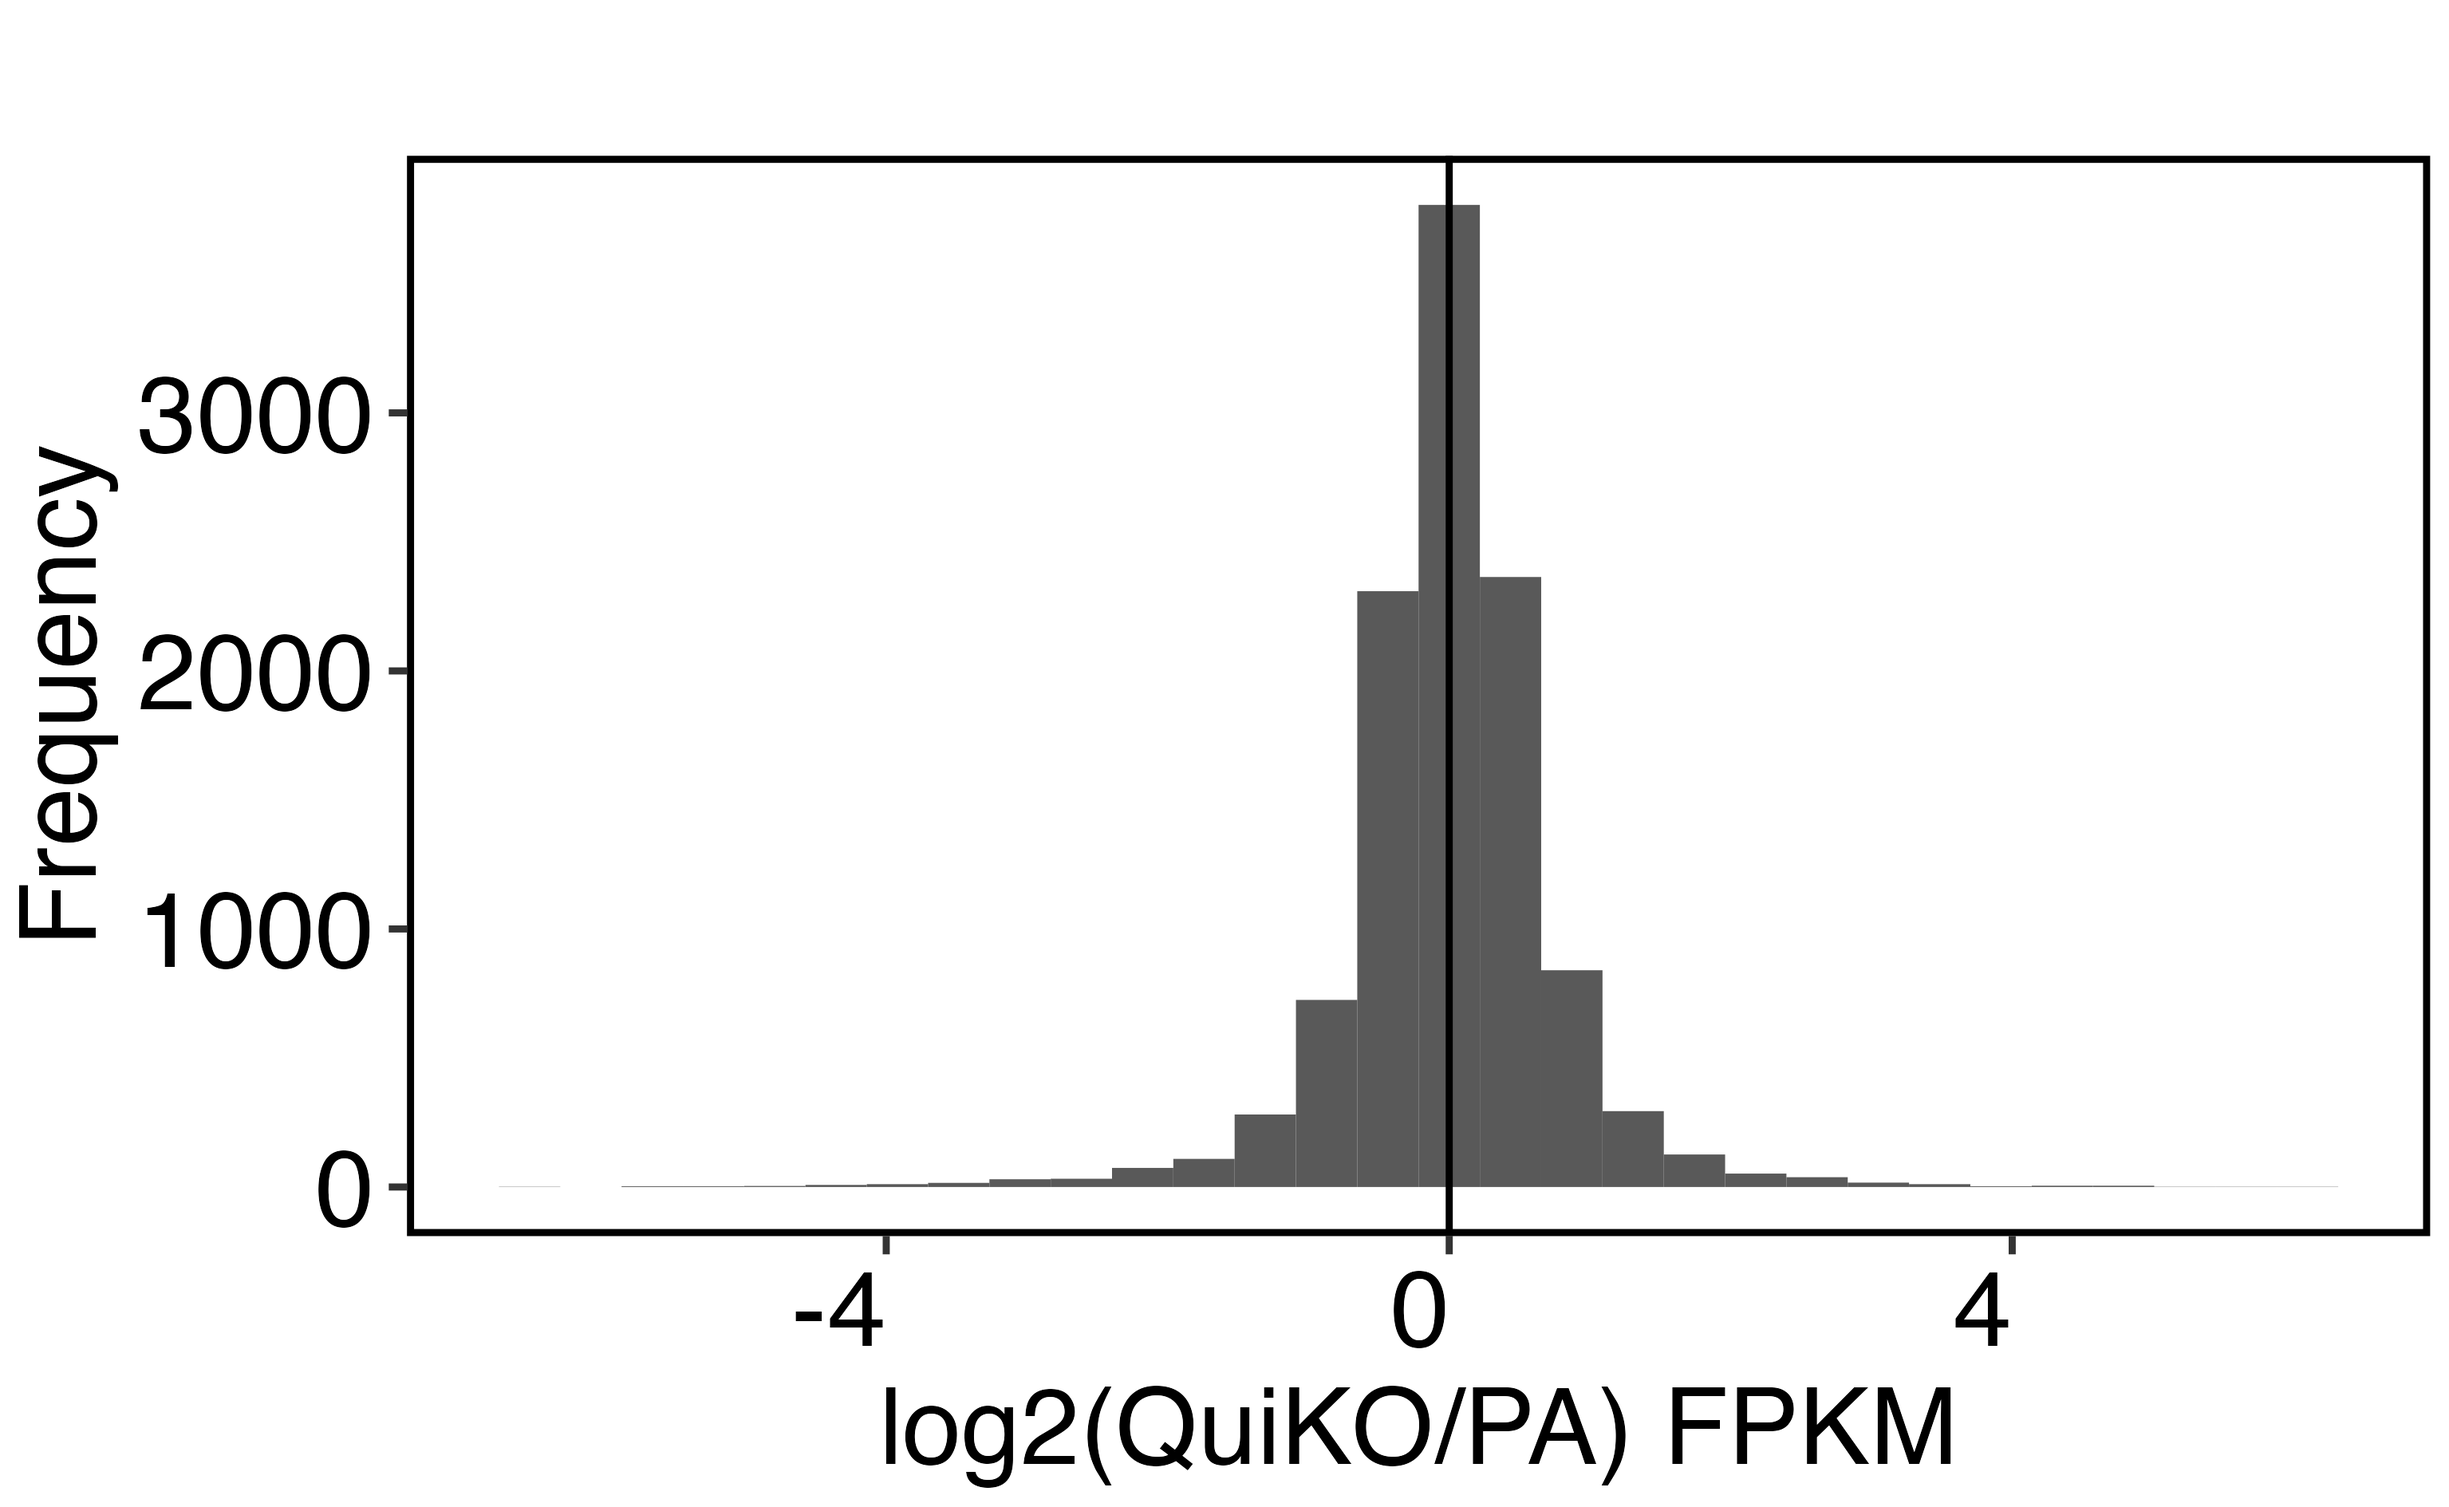
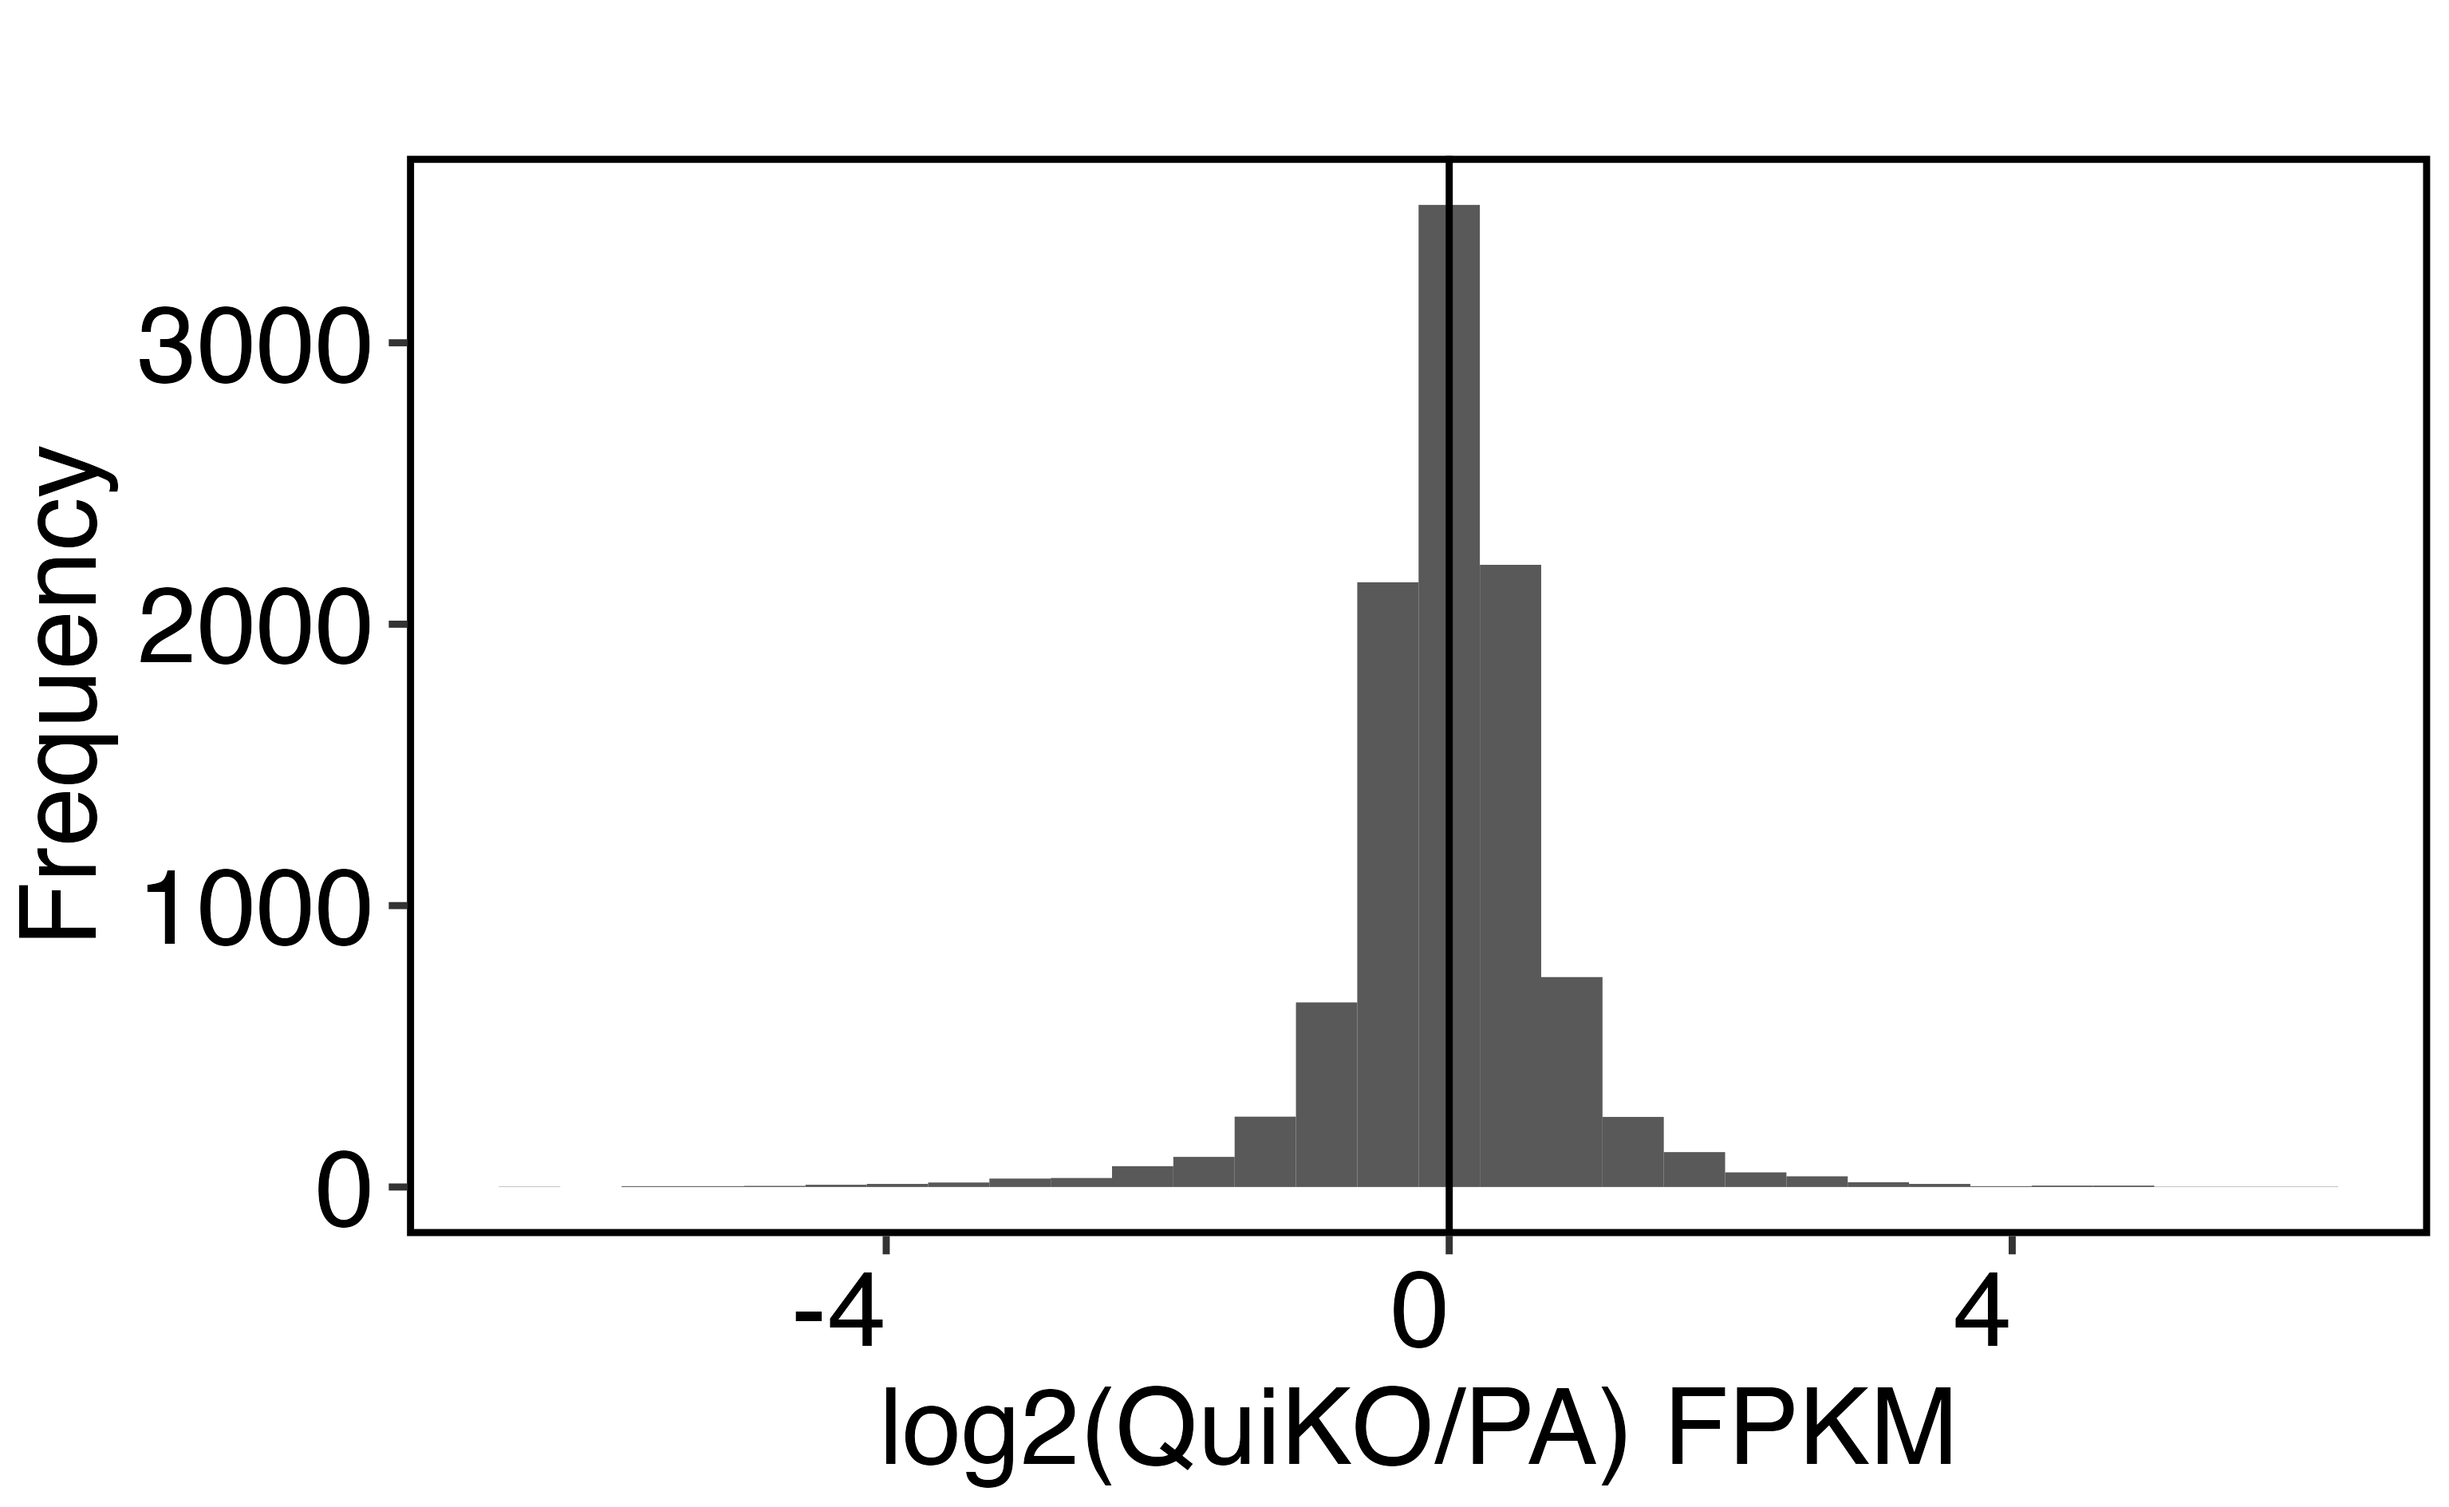
pushed FPKM > 1 for histograms

diff --git a/docs/RNAseq.html b/docs/RNAseq.html
@@ -364,7 +364,7 @@ div.tocify {
 <h1 class="tabset">Distribution histograms</h1>
 <ul>
 <li>
-For each comparison, only genes with FPKM &gt; 0.5 across conditions was
+For each comparison, only genes with FPKM &gt; 1 across conditions was
 used.
 </li>
 <li>
